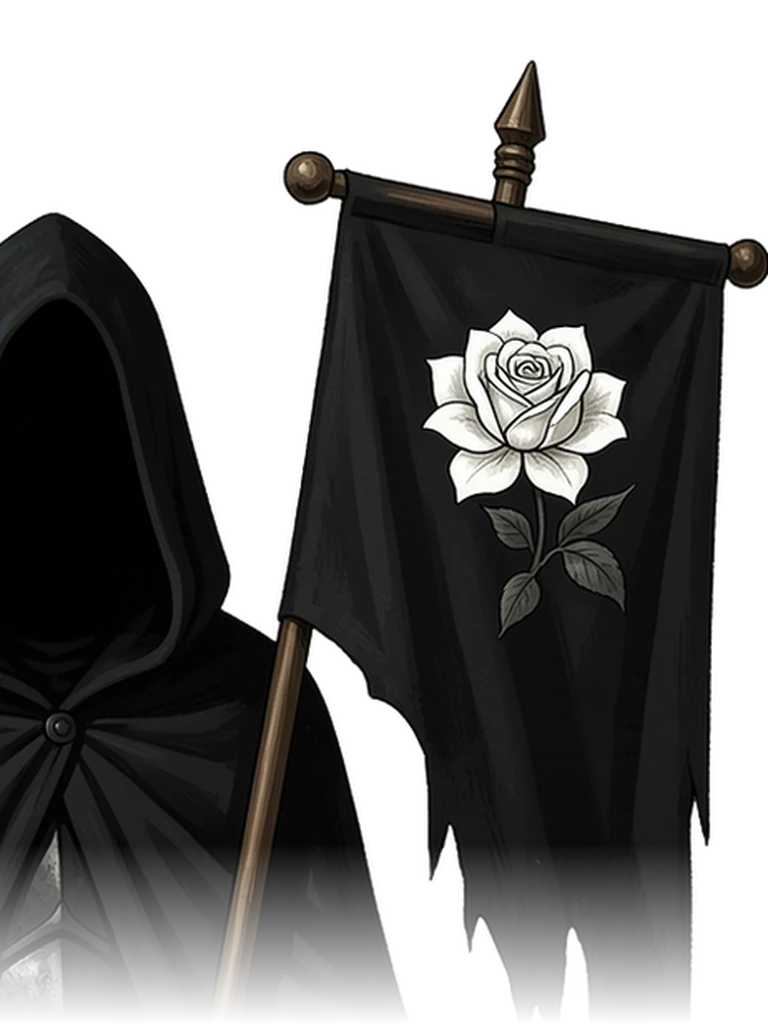
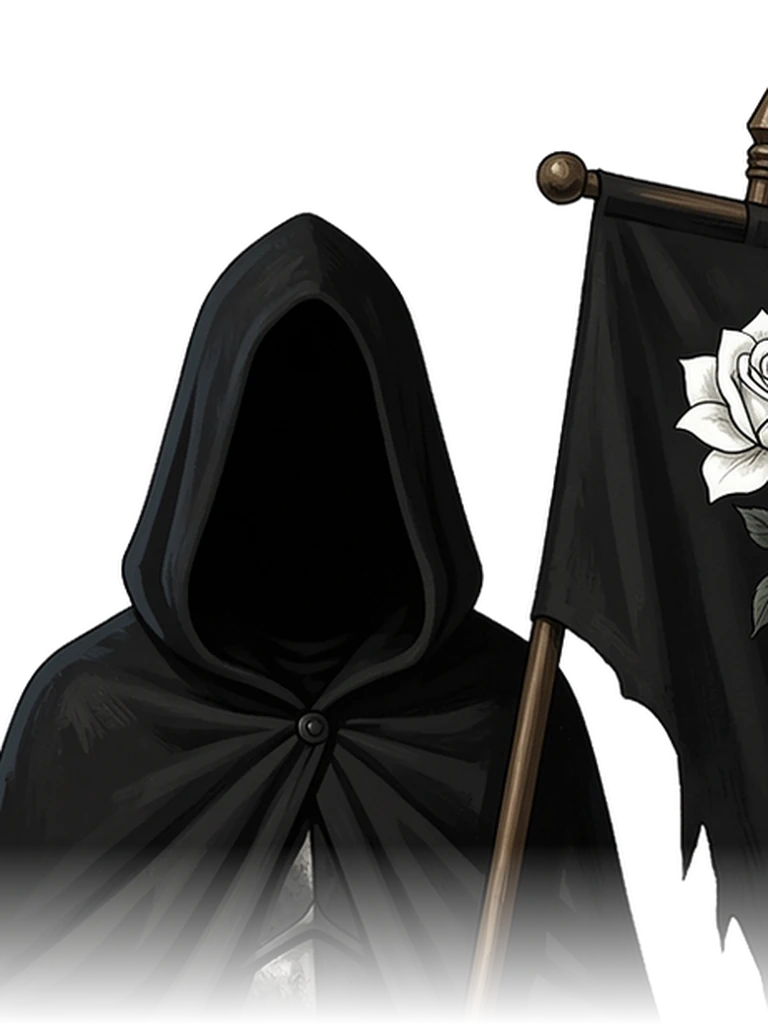
Arcanos: retrato da Morte centrado no capuz (--maior-massa ignora o estandarte)
Claude-Session: https://claude.ai/code/session_01Fm5U3bqZz6wpuWL1ksRMyi

diff --git a/arte/ferramentas/arcanos.py b/arte/ferramentas/arcanos.py
@@ -2,6 +2,7 @@
 
 Uso: python3 arte/ferramentas/arcanos.py <pasta arte-saida/arcano-<key>> <vNN> <key> [--cabeca-embaixo]
      --cabeca-embaixo: figura de ponta-cabeça (Enforcado) — o retrato pega a cabeça no pé da figura.
+     --maior-massa: centra o retrato no maior bloco opaco do topo (ignora estandarte, cajado ou asa ao lado).
 
 Contrato (lib/devo/arcanos-arte.ts): public/images/arcanos/<key>/{figura,retrato}-<lado>.webp, <lado> = maior lado.
   figura   1024×1536, figura com 1400 px de altura, pés em y=1500, centrada (ou limitada pela largura).
@@ -25,6 +26,7 @@ ALTURA, PES, W, H = 1400, 1500, 1024, 1536
 def main() -> int:
     saida, var, key = Path(sys.argv[1]), sys.argv[2], sys.argv[3]
     embaixo = "--cabeca-embaixo" in sys.argv[4:]
+    massa = "--maior-massa" in sys.argv[4:]
     pid = json.loads((saida / "manifest.json").read_text())["pedido"]
     png = max(saida.glob(f"final/{pid}--{var}--*.png"), key=lambda p: int(p.stem.split("--")[-1]))
     im = Image.open(png).convert("RGBA")
@@ -53,6 +55,23 @@ def main() -> int:
         faixa = fa[topo:topo + int(obj.height * 0.14)]
         by = topo - int(bh * 0.06)
     cx = float((faixa.sum(0) * np.arange(W)).sum() / max(faixa.sum(), 1))
+    if massa:
+        # o corpo (bloco mais largo a 45% da altura) diz onde está a cabeça: o centróide do topo só conta as colunas
+        # dentro dele — estandarte, cajado ou asa ao lado não puxam o retrato
+        linha = fa[topo + int(obj.height * 0.45)] > 24
+        melhor, ini = (0, 0, 0), None
+        for x in range(W + 1):
+            if x < W and linha[x]:
+                ini = x if ini is None else ini
+            elif ini is not None:
+                if x - ini > melhor[0]:
+                    melhor = (x - ini, ini, x)
+                ini = None
+        faixa_c = fa[topo:topo + int(obj.height * 0.3)].copy()
+        faixa_c[:, :melhor[1]] = 0
+        faixa_c[:, melhor[2]:] = 0
+        if faixa_c.sum():
+            cx = float((faixa_c.sum(0) * np.arange(W)).sum() / faixa_c.sum())
     bx = int(round(cx - bw / 2))
     caixa = (bx, by, bx + bw, by + bh)
     ret = Image.new("RGBA", (bw, bh), (0, 0, 0, 0))
